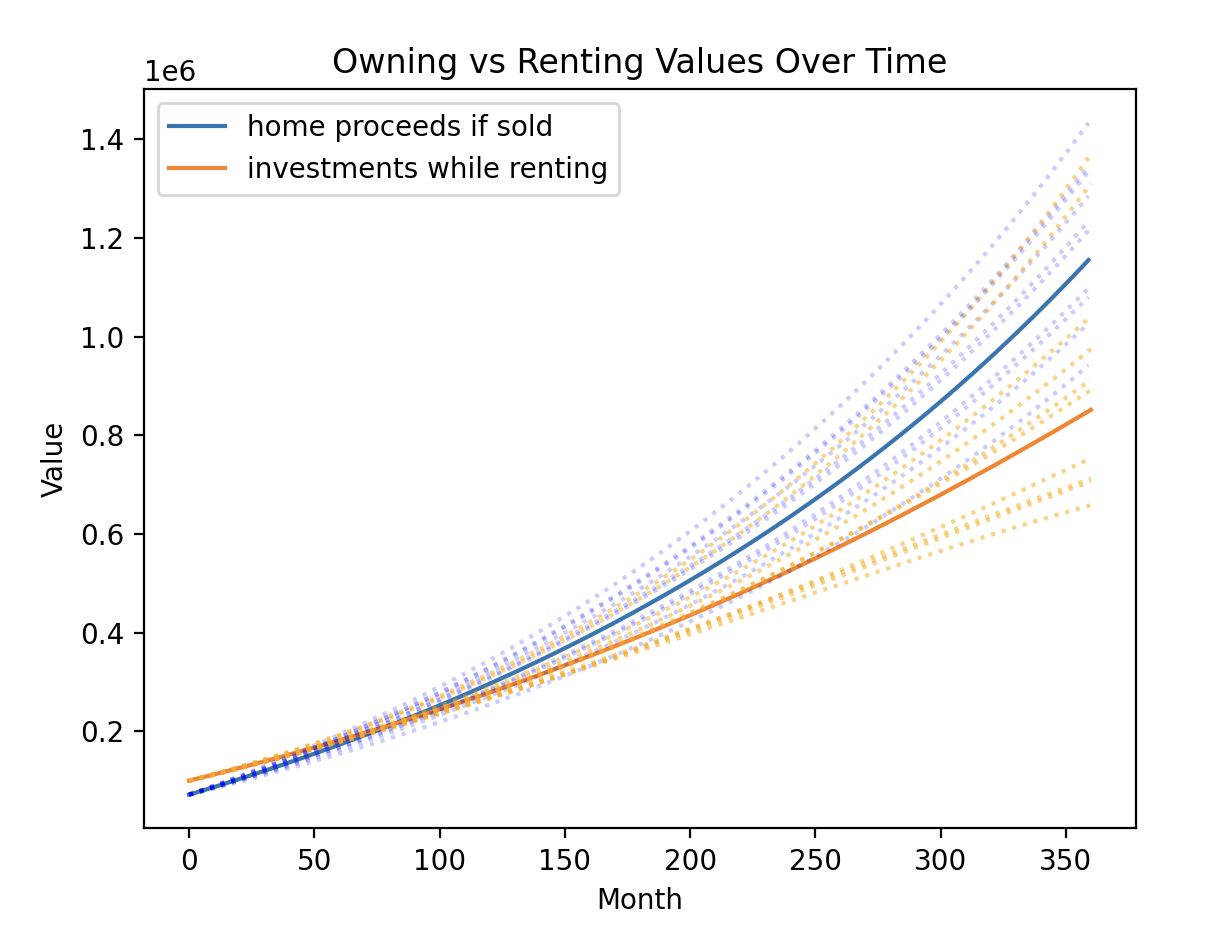
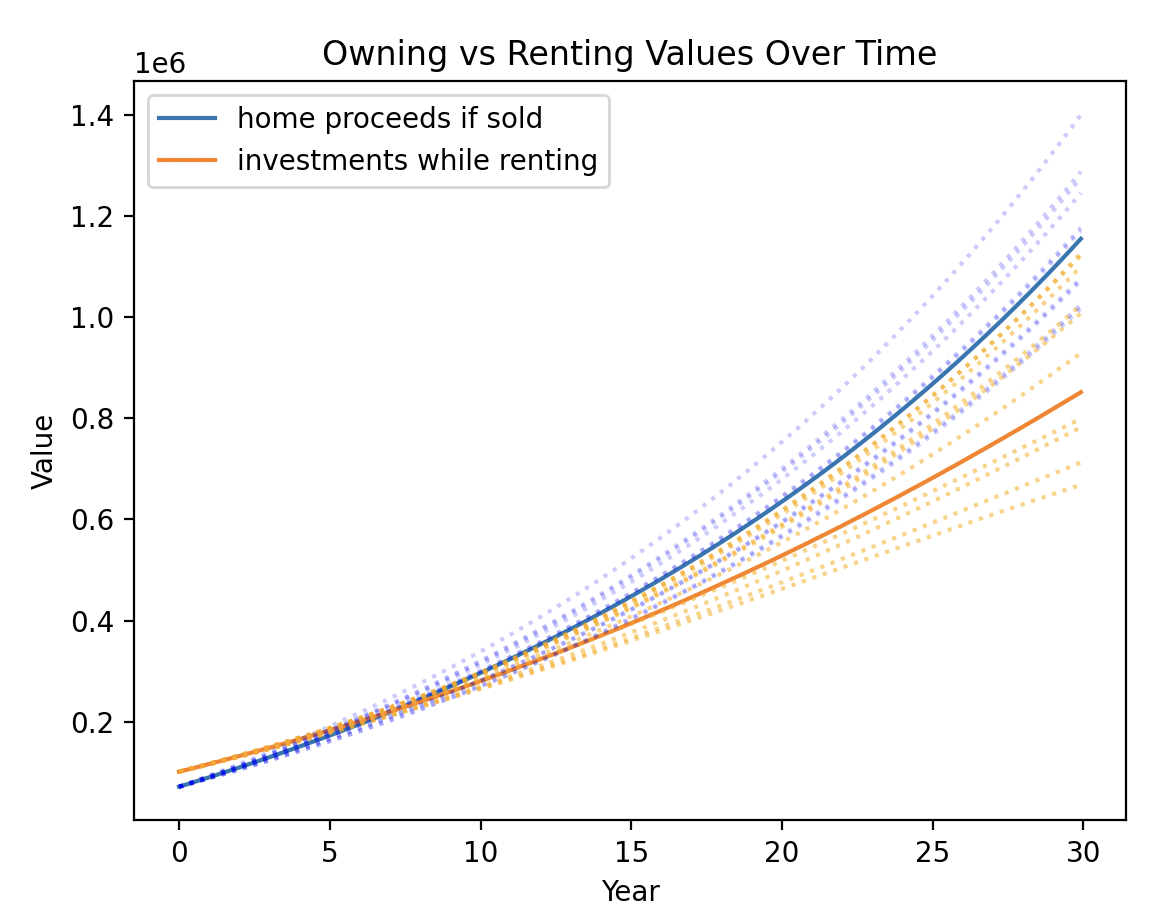
Replace months with years for clarity

Changed region(s): [[0.1544, 0.0915, 0.988, 0.8845], [0.0309, 0.0305, 0.9571, 0.8845], [0.1235, 0.8845, 0.9571, 1.0]]

diff --git a/rent_vs_buy_model.py b/rent_vs_buy_model.py
@@ -237,21 +237,23 @@ else:
 
 print("The average ending present value benefit of owning over renting is ${}".format(round(np.average([x[-1] for x in present_value_benefits]), 2)))
 
+years = np.arange(0, YEARS_OF_MORTGAGE, 1/12)
+
 _, ax1 = plt.subplots()
-ax1.set(xlabel="Month", ylabel="Value")
-plt.plot(net_cashes[0], label="home proceeds if sold")
-plt.plot(equities_while_renting[0], label="investments while renting")
+ax1.set(xlabel="Year", ylabel="Value")
+plt.plot(years, net_cashes[0], label="home proceeds if sold")
+plt.plot(years, equities_while_renting[0][1:], label="investments while renting")
 plt.legend()
 plt.title("Owning vs Renting Values Over Time")
 for i in range(1, len(net_cashes)):
-    plt.plot(net_cashes[i], ':', alpha=0.2, color='blue')
-    plt.plot(equities_while_renting[i], ':', alpha=0.5, color='orange')
+    plt.plot(years, net_cashes[i], ':', alpha=0.2, color='blue')
+    plt.plot(years, equities_while_renting[i][1:], ':', alpha=0.5, color='orange')
 
 _, ax2 = plt.subplots()
-ax2.set(xlabel="Month", ylabel="Value")
-plt.plot(present_value_benefits[0])
+ax2.set(xlabel="Year", ylabel="Value")
+plt.plot(years, present_value_benefits[0])
 plt.title("Present Value Benefit Difference: Owning Minus Renting")
 for i in range(1, len(present_value_benefits)):
-    plt.plot(present_value_benefits[i], ':', alpha=0.5, color='blue')
-plt.plot([0] * len(present_value_benefits[0]), '--')
+    plt.plot(years, present_value_benefits[i], ':', alpha=0.5, color='blue')
+plt.plot([0] * np.arange(0, YEARS_OF_MORTGAGE), '--')
 plt.show()
